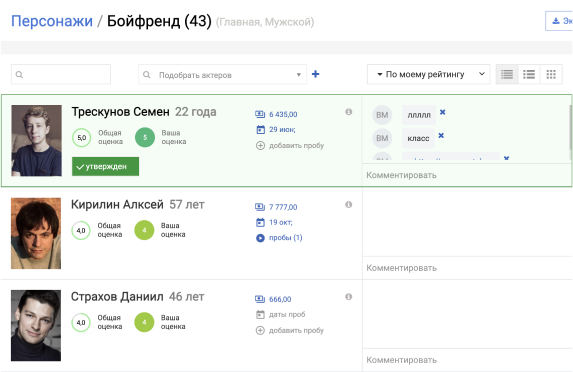
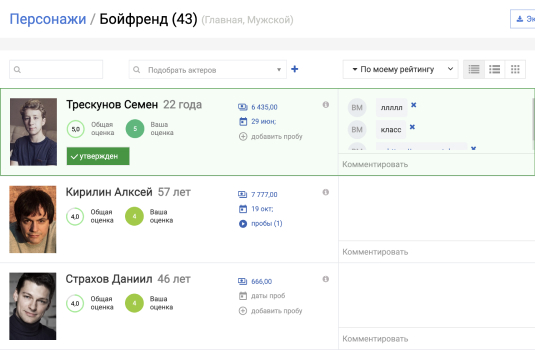
service adapt

diff --git a/src/index.html b/src/index.html
@@ -154,7 +154,7 @@
 			<!-- /.module module_left -->
 
 			<div class="module module_right">
-				<div class="module__content">
+				<div class="module__content module__content_right">
 					<h3 class="module__title">
 						Модуль бюджетирования
 					</h3>
@@ -173,7 +173,7 @@
 			<!-- /.module module_right -->
 
 			<div class="module module_left">
-					<img class="module__img" src="./images/service/module-3.jpg" alt="планирование">
+					<img class="module__img" src="./images/service/module-3-1.jpg" alt="планирование">
 				<!-- /.module__img -->
 				<div class="module__content">
 					<h3 class="module__title">

diff --git a/src/css/styles.css b/src/css/styles.css
@@ -50,11 +50,15 @@ a {
   padding: 50px 0;
 }
 .module__img {
-  flex-basis: 50%;
+  width: 50%;
 }
 .module__content {
-  flex-basis: 40%;
+  width: 40%;
   padding-left: 30px;
+}
+.module__content_right {
+  padding-left: 0px;
+  padding-right: 30px;
 }
 .module__title {
   font-size: 24px;
@@ -317,6 +321,15 @@ a {
   }
   .hero__text {
     max-width: 100%;
+  }
+  .module_left::before, .module_right::before {
+    display: none;
+  }
+  .module__img {
+    width: 30%;
+  }
+  .module__content {
+    width: 70%;
   }
 }
 @media (max-width: 767px) {

diff --git a/src/sass/_interface.sass b/src/sass/_interface.sass
@@ -25,11 +25,14 @@ $style-color: #F83718
   padding: 50px 0
 
   &__img
-    flex-basis: 50%
+    width: 50%
 
   &__content
-    flex-basis: 40%
+    width: 40%
     padding-left: 30px
+    &_right
+      padding-left: 0px
+      padding-right: 30px
 
   &__title
     font-size: 24px

diff --git a/src/sass/_media.sass b/src/sass/_media.sass
@@ -45,6 +45,15 @@
     &__text
       max-width: 100%
 
+  .module
+    &_left, &_right
+      &::before
+        display: none
+    &__img
+      width: 30%
+    &__content
+      width: 70%
+
 @media ( max-width: 767px )
   .container
     width: 540px
